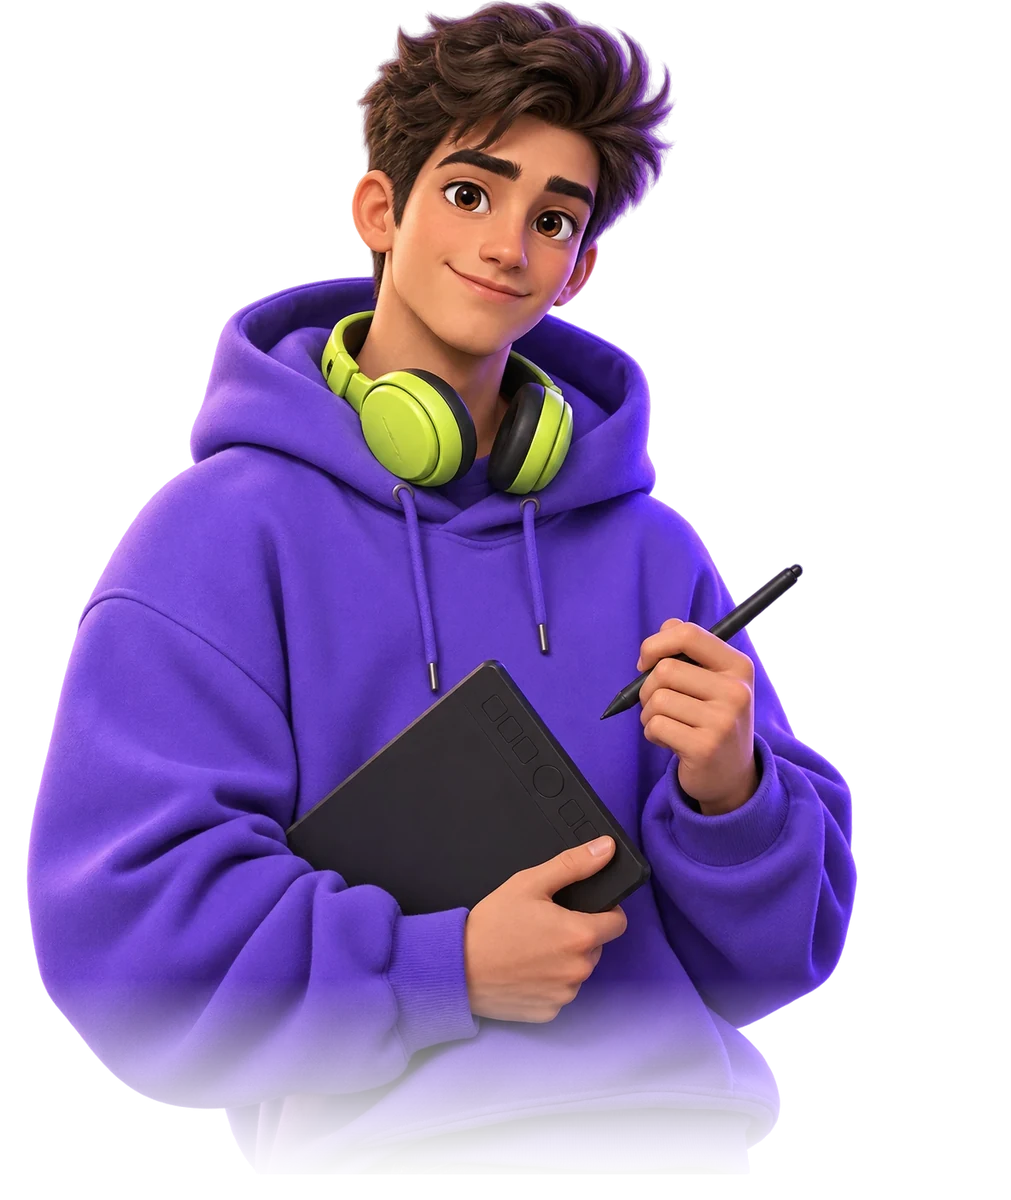
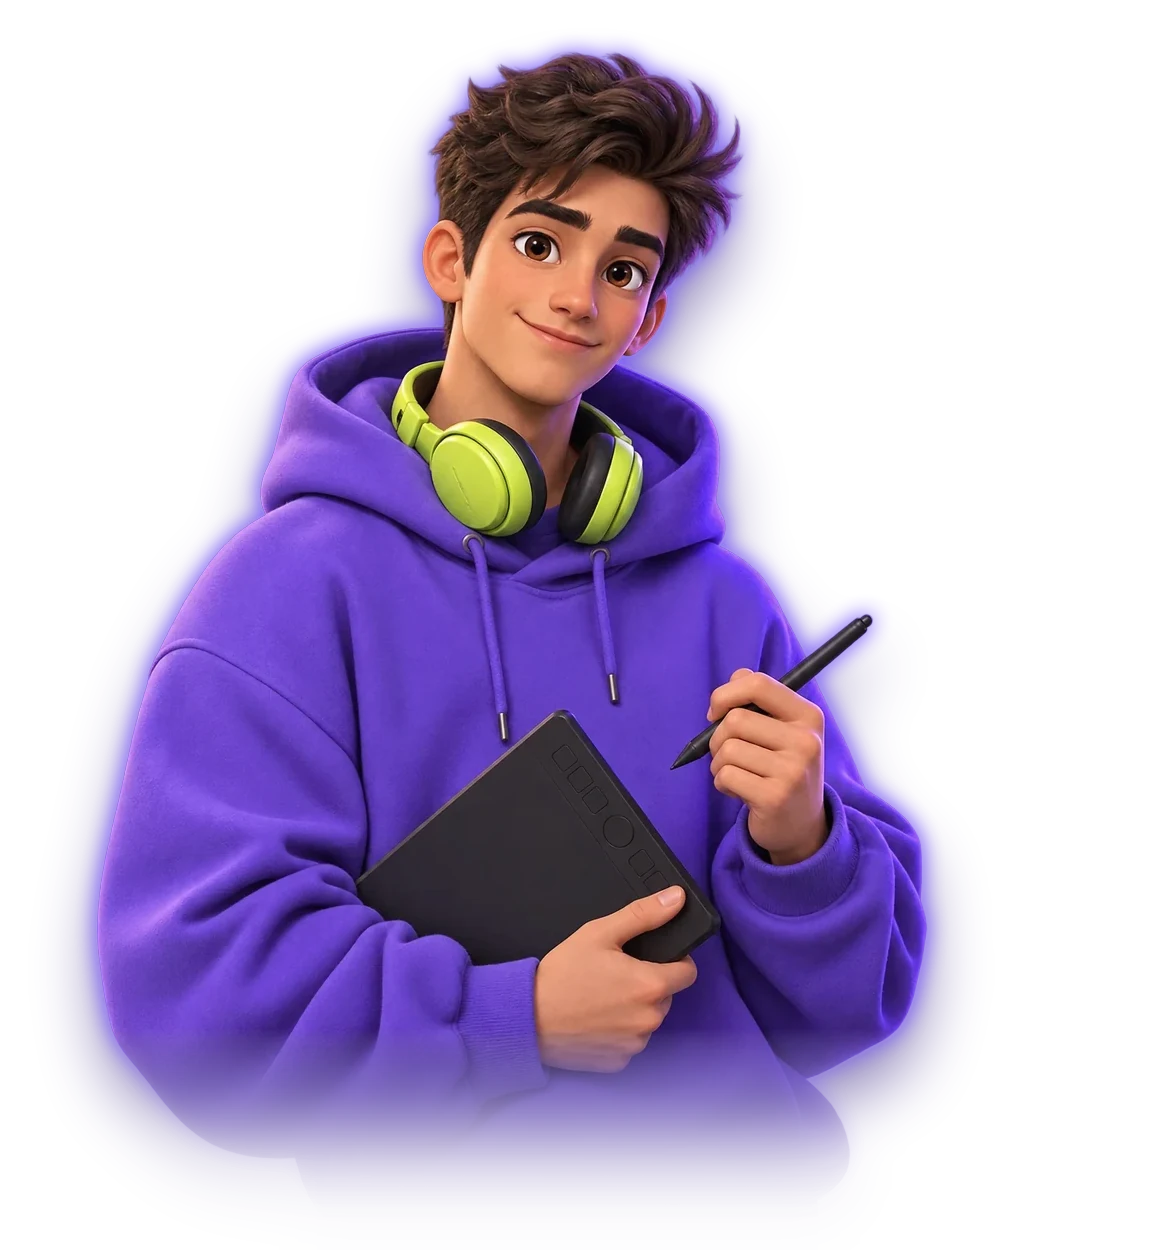
Cut GPU cost of hero and contact animations
Frame cost measured on the GPU process (software rasterizer, so relative):
hero 219 -> 42 ms/frame, contacts ~105 -> ~54 ms/frame; an empty frame is ~39.

- Avatar: bake the violet rim, glow and shadow into avatar.webp; three CSS
  drop-shadow filters on a moving image were recomputed every frame (5x cost)
- Hero glows and contact blobs: soft radial gradients instead of filter: blur;
  three blurred blobs replaced with one gradient aurora layer
- Grid floor narrower so the masked layer is smaller
- Confetti canvas hidden when empty (was a full-card layer on every frame),
  fewer particles, time-based physics so slow devices don't keep it longer
- Pause infinite animations of hero, marquee and contacts while off screen
- Drop all will-change hints; the browser promotes animating elements itself
- Bump asset version to v=6

Claude-Session: https://claude.ai/code/session_01HyjwJEJiQvGGPauUpFGDH2

diff --git a/styles.css b/styles.css
@@ -118,7 +118,6 @@ em { font-style: normal; color: var(--lime); }
   pointer-events: none;
   opacity: 0;
   transition: opacity .3s;
-  will-change: transform;
 }
 .cursor::after {
   content: ""; position: absolute; inset: 0; border-radius: 50%;
@@ -177,7 +176,6 @@ em { font-style: normal; color: var(--lime); }
   background:
     radial-gradient(closest-side, rgba(124, 92, 255, .45), transparent 70%),
     radial-gradient(closest-side at 70% 70%, rgba(255, 79, 216, .25), transparent 70%);
-  filter: blur(40px);
 }
 .hero__eyebrow {
   display: inline-flex; align-items: center; gap: 10px;
@@ -223,7 +221,6 @@ em { font-style: normal; color: var(--lime); }
      хвост запятой выходит за него — даём запас и компенсируем отрицательным отступом */
   padding: 0 .06em .2em;
   margin: 0 -.06em -.2em;
-  will-change: transform, opacity;
 }
 .is-loaded .hero__line .ch { transform: none; opacity: 1; }
 
@@ -254,14 +251,12 @@ em { font-style: normal; color: var(--lime); }
 }
 .hero__avatar::before {
   top: 8%; width: 70%; aspect-ratio: 1;
-  background: radial-gradient(closest-side, rgba(124, 92, 255, .75), rgba(124, 92, 255, .25) 55%, transparent);
-  filter: blur(30px);
+  background: radial-gradient(closest-side, rgba(124, 92, 255, .6), rgba(124, 92, 255, .22) 50%, rgba(124, 92, 255, .06) 75%, transparent);
   animation: glowPulse 5s ease-in-out infinite;
 }
 .hero__avatar::after {
   top: 2%; width: 34%; aspect-ratio: 1;
-  background: radial-gradient(closest-side, rgba(255, 79, 216, .45), transparent);
-  filter: blur(24px);
+  background: radial-gradient(closest-side, rgba(255, 79, 216, .38), rgba(255, 79, 216, .1) 60%, transparent);
   animation: glowPulse 5s ease-in-out -2.5s infinite;
 }
 @keyframes glowPulse {
@@ -272,12 +267,8 @@ em { font-style: normal; color: var(--lime); }
   height: 100%; width: auto; max-width: 100%;
   object-fit: contain; object-position: bottom center;
   transform-origin: 50% 85%;
-  will-change: transform;
-  /* фиолетовый контровой свет по силуэту + мягкая тень */
-  filter:
-    drop-shadow(0 0 1px rgba(190, 170, 255, .9))
-    drop-shadow(0 0 18px rgba(124, 92, 255, .65))
-    drop-shadow(0 40px 60px rgba(40, 20, 120, .55));
+  /* фиолетовый контур, свечение и тень запечены в саму картинку:
+     CSS drop-shadow на движущемся изображении пересчитывался каждый кадр */
   opacity: 0;
   animation: avatarIn 1.2s var(--ease) .35s forwards;
 }
@@ -297,7 +288,7 @@ em { font-style: normal; color: var(--lime); }
 .orbit--2 { width: 104%; aspect-ratio: 1; border-style: dashed; opacity: .6; animation: spin 60s linear infinite; }
 @keyframes spin { to { transform: translate(-50%, -50%) rotate(360deg); } }
 
-.chip--float { position: absolute; animation: float 6s ease-in-out infinite; will-change: transform; }
+.chip--float { position: absolute; animation: float 6s ease-in-out infinite; }
 .chip--a { left: 2%; top: 30%; }
 .chip--b { right: 0; top: 18%; animation-delay: -2s; }
 .chip--c { right: 12%; bottom: 16%; animation-delay: -4s; }
@@ -531,23 +522,30 @@ em { font-style: normal; color: var(--lime); }
   opacity: 0;
   transform: translateY(80px) scale(.86);
   transition: transform 1.3s var(--ease), opacity .9s var(--ease);
-  will-change: transform, opacity;
 }
 .contact__card.is-live { opacity: 1; transform: none; }
 
 /* фон: цветные пятна, сетка-пол, прожектор за курсором */
 .contact__bg { position: absolute; inset: 0; z-index: -1; overflow: hidden; }
-.blob { position: absolute; border-radius: 50%; filter: blur(70px); opacity: 0; transition: opacity 1.6s var(--ease) .3s; will-change: transform; }
-.is-live .blob { opacity: 1; }
-.blob--1 { width: 55%; aspect-ratio: 1; left: -10%; top: -20%; background: rgba(124, 92, 255, .7); animation: blob1 14s ease-in-out infinite; }
-.blob--2 { width: 45%; aspect-ratio: 1; right: -12%; top: 10%; background: rgba(255, 79, 216, .45); animation: blob2 17s ease-in-out infinite; }
-.blob--3 { width: 35%; aspect-ratio: 1; left: 30%; bottom: -40%; background: rgba(212, 255, 63, .16); animation: blob3 12s ease-in-out infinite; }
-@keyframes blob1 { 50% { transform: translate(30%, 25%) scale(1.15); } }
-@keyframes blob2 { 50% { transform: translate(-35%, 30%) scale(.9); } }
-@keyframes blob3 { 50% { transform: translate(-40%, -30%) scale(1.2); } }
+.contact__aurora {
+  position: absolute; inset: -25%;
+  background:
+    radial-gradient(38% 38% at 28% 26%, rgba(124, 92, 255, .75), rgba(124, 92, 255, .28) 45%, transparent 72%),
+    radial-gradient(32% 32% at 78% 38%, rgba(255, 79, 216, .5), rgba(255, 79, 216, .16) 45%, transparent 72%),
+    radial-gradient(26% 26% at 52% 88%, rgba(212, 255, 63, .18), transparent 72%);
+  opacity: 0;
+  transition: opacity 1.6s var(--ease) .3s;
+  animation: aurora 16s ease-in-out infinite alternate;
+}
+.is-live .contact__aurora { opacity: 1; }
+@keyframes aurora {
+  0% { transform: translate3d(0, 0, 0) rotate(0deg) scale(1); }
+  50% { transform: translate3d(6%, 4%, 0) rotate(8deg) scale(1.08); }
+  100% { transform: translate3d(-5%, 2%, 0) rotate(-6deg) scale(1.04); }
+}
 
 .contact__floor {
-  position: absolute; left: -50%; right: -50%; bottom: -10%; height: 60%;
+  position: absolute; left: -20%; right: -20%; bottom: -10%; height: 58%;
   overflow: hidden;
   transform: perspective(500px) rotateX(62deg);
   transform-origin: 50% 0%;
@@ -562,7 +560,6 @@ em { font-style: normal; color: var(--lime); }
     linear-gradient(90deg, rgba(160, 140, 255, .35) 1px, transparent 1px);
   background-size: 64px 64px;
   animation: floor 3s linear infinite;
-  will-change: transform;
 }
 .is-live .contact__floor { opacity: .55; }
 @keyframes floor { from { transform: translateY(0); } to { transform: translateY(64px); } }
@@ -574,7 +571,6 @@ em { font-style: normal; color: var(--lime); }
   background: radial-gradient(closest-side, rgba(212, 255, 63, .12), transparent);
   transform: translate3d(50vw, 50%, 0);
   opacity: 0; transition: opacity .5s;
-  will-change: transform;
 }
 .contact__card:hover .contact__spot { opacity: 1; }
 .contact__fx { position: absolute; inset: 0; width: 100%; height: 100%; pointer-events: none; z-index: 3; }
@@ -586,7 +582,6 @@ em { font-style: normal; color: var(--lime); }
   translate: calc(var(--px) * var(--d) * 26px) calc(var(--py) * var(--d) * 26px);
   transition: translate .6s var(--ease), scale .9s cubic-bezier(.34, 1.8, .5, 1), opacity .5s;
   scale: 0; opacity: 0;
-  will-change: transform;
 }
 .is-live .shape { scale: 1; opacity: 1; }
 .is-live .shape:nth-child(1) { transition-delay: 0s, .7s, .7s; }
@@ -695,6 +690,9 @@ em { font-style: normal; color: var(--lime); }
   color: var(--muted); font-size: 14px;
 }
 .footer a:hover { color: var(--text); }
+
+/* анимации блоков, которых нет на экране, стоят на паузе */
+.is-offscreen, .is-offscreen *, .is-offscreen *::before, .is-offscreen *::after { animation-play-state: paused !important; }
 
 /* ============ REVEAL ============ */
 .reveal { opacity: 0; transform: translateY(40px); transition: opacity 1s var(--ease), transform 1s var(--ease); }

diff --git a/main.js b/main.js
@@ -104,8 +104,9 @@
     let particles = [];
     let running = false;
 
+    let dpr = 1;
     const sizeFx = () => {
-      const dpr = Math.min(window.devicePixelRatio || 1, 1.5);
+      dpr = Math.min(window.devicePixelRatio || 1, 1.5);
       fx.width = card.clientWidth * dpr;
       fx.height = card.clientHeight * dpr;
       ctx.setTransform(dpr, 0, 0, dpr, 0, 0);
@@ -129,10 +130,10 @@
           vr: (Math.random() - 0.5) * 0.4,
           shape: Math.random() < 0.3 ? 'circle' : Math.random() < 0.5 ? 'star' : 'rect',
           life: 1,
-          decay: 0.006 + Math.random() * 0.008,
+          decay: 0.4 + Math.random() * 0.5, // доля жизни в секунду: частица живёт 1.1–2.5 с
         });
       }
-      if (!running) { running = true; requestAnimationFrame(tick); }
+      if (!running) { running = true; fx.hidden = false; last = performance.now(); requestAnimationFrame(tick); }
     };
 
     const drawStar = (r) => {
@@ -146,28 +147,34 @@
       ctx.fill();
     };
 
-    const tick = () => {
+    // физика по реальному времени, а не по кадрам: на слабом устройстве конфетти
+    // не «зависает» дольше, а просто рисуется реже
+    let last = 0;
+    const tick = (now) => {
+      const k = Math.min((now - last) / 16.67, 4); // 1 = один кадр при 60 fps
+      last = now;
+      ctx.setTransform(1, 0, 0, 1, 0, 0);
       ctx.clearRect(0, 0, fx.width, fx.height);
       particles = particles.filter((p) => p.life > 0);
       for (const p of particles) {
-        p.vx *= 0.985;
-        p.vy = p.vy * 0.985 + 0.22;
-        p.x += p.vx;
-        p.y += p.vy;
-        p.rot += p.vr;
-        p.life -= p.decay;
-        ctx.save();
+        const drag = Math.pow(0.985, k);
+        p.vx *= drag;
+        p.vy = p.vy * drag + 0.22 * k;
+        p.x += p.vx * k;
+        p.y += p.vy * k;
+        p.rot += p.vr * k;
+        p.life -= p.decay * k / 60;
+        const cos = Math.cos(p.rot), sin = Math.sin(p.rot);
+        ctx.setTransform(dpr * cos, dpr * sin, -dpr * sin, dpr * cos, dpr * p.x, dpr * p.y);
         ctx.globalAlpha = Math.max(0, Math.min(1, p.life * 1.5));
-        ctx.translate(p.x, p.y);
-        ctx.rotate(p.rot);
         ctx.fillStyle = p.color;
         if (p.shape === 'circle') { ctx.beginPath(); ctx.arc(0, 0, p.size / 2, 0, Math.PI * 2); ctx.fill(); }
         else if (p.shape === 'star') drawStar(p.size * 0.8);
         else ctx.fillRect(-p.size / 2, -p.size / 4, p.size, p.size / 2);
-        ctx.restore();
       }
+      ctx.setTransform(dpr, 0, 0, dpr, 0, 0);
       if (particles.length) requestAnimationFrame(tick);
-      else running = false;
+      else { running = false; fx.hidden = true; } // пустой холст не держим отдельным слоем
     };
 
     const go = () => {
@@ -175,10 +182,10 @@
       // два залпа из нижних углов и один из центра, когда карточка раскрылась
       setTimeout(() => {
         const w = card.clientWidth, h = card.clientHeight;
-        burst(w * 0.12, h * 0.9, 90, 1.1);
-        burst(w * 0.88, h * 0.9, 90, 1.1);
+        burst(w * 0.12, h * 0.9, 60, 1.1);
+        burst(w * 0.88, h * 0.9, 60, 1.1);
       }, 700);
-      setTimeout(() => burst(card.clientWidth / 2, card.clientHeight * 0.42, 140, 1.2), 1500);
+      setTimeout(() => burst(card.clientWidth / 2, card.clientHeight * 0.42, 90, 1.2), 1500);
     };
 
     if (reduceMotion || !('IntersectionObserver' in window)) {
@@ -229,6 +236,14 @@
         burst(r.left + r.width / 2 - c.left, r.top + r.height / 2 - c.top, 60, 0.8);
       });
     });
+  }
+
+  // Бесконечные анимации блоков вне экрана ставим на паузу — видеокарта не тратит на них кадры
+  if ('IntersectionObserver' in window) {
+    const pauser = new IntersectionObserver((entries) => {
+      entries.forEach((entry) => entry.target.classList.toggle('is-offscreen', !entry.isIntersecting));
+    }, { rootMargin: '100px 0px' });
+    document.querySelectorAll('.hero, .marquee, .contact__card').forEach((el) => pauser.observe(el));
   }
 
   document.querySelectorAll('[data-year]').forEach((el) => { el.textContent = new Date().getFullYear(); });

diff --git a/index.html b/index.html
@@ -11,8 +11,8 @@
   <link rel="preconnect" href="https://fonts.googleapis.com" />
   <link rel="preconnect" href="https://fonts.gstatic.com" crossorigin />
   <link href="https://fonts.googleapis.com/css2?family=Unbounded:wght@500;700;900&family=Manrope:wght@400;500;600;700&display=swap" rel="stylesheet" />
-  <link rel="stylesheet" href="styles.css?v=5" />
-  <link rel="preload" as="image" href="assets/avatar.webp?v=5" />
+  <link rel="stylesheet" href="styles.css?v=6" />
+  <link rel="preload" as="image" href="assets/avatar.webp?v=6" />
 
   <script type="importmap">
     {
@@ -56,7 +56,7 @@
 
       <!-- Аватар. data-avatar="assets/avatar.png" — картинка с 3D-наклоном,
            data-avatar="assets/avatar.glb" — 3D-модель, пусто — временная заглушка -->
-      <div class="hero__stage" data-avatar="assets/avatar.webp?v=5">
+      <div class="hero__stage" data-avatar="assets/avatar.webp?v=6">
         <div class="orbit orbit--1" aria-hidden="true"></div>
         <div class="orbit orbit--2" aria-hidden="true"></div>
         <canvas class="hero__canvas" aria-label="3D-персонаж Егора"></canvas>
@@ -298,13 +298,11 @@
     <section class="section contact" id="contact">
       <div class="contact__card" data-contact>
         <div class="contact__bg" aria-hidden="true">
-          <span class="blob blob--1"></span>
-          <span class="blob blob--2"></span>
-          <span class="blob blob--3"></span>
+          <span class="contact__aurora"></span>
           <span class="contact__floor"></span>
           <span class="contact__spot"></span>
         </div>
-        <canvas class="contact__fx" aria-hidden="true"></canvas>
+        <canvas class="contact__fx" aria-hidden="true" hidden></canvas>
 
         <div class="contact__shapes" aria-hidden="true">
           <span class="shape shape--star" style="--x:9%;--y:18%;--d:1.4;--r:-12deg">✦</span>
@@ -352,7 +350,7 @@
     <a href="#top">Наверх ↑</a>
   </footer>
 
-  <script src="main.js?v=5" defer></script>
-  <script type="module" src="avatar.js?v=5"></script>
+  <script src="main.js?v=6" defer></script>
+  <script type="module" src="avatar.js?v=6"></script>
 </body>
 </html>

diff --git a/CLAUDE.md b/CLAUDE.md
@@ -1,7 +1,7 @@
 # Сайт-портфолио Егора Иванова
 
 Статический сайт без сборки: `index.html`, `styles.css`, `main.js`, `avatar.js`.
-**Кэш:** подключаемые файлы в `index.html` помечены версией (`styles.css?v=5`, `main.js?v=5`, `avatar.js?v=5`, `assets/avatar.webp?v=5`). При каждом изменении этих файлов увеличивать номер `v` везде, иначе у посетителей новый HTML окажется со старыми стилями из кэша.
+**Кэш:** подключаемые файлы в `index.html` помечены версией (`styles.css?v=6`, `main.js?v=6`, `avatar.js?v=6`, `assets/avatar.webp?v=6`). При каждом изменении этих файлов увеличивать номер `v` везде, иначе у посетителей новый HTML окажется со старыми стилями из кэша.
 
 Язык сайта — русский. Стиль: тёмный фон, крупная жирная типографика (Unbounded), акценты лайм `#d4ff3f` и фиолетовый `#7c5cff`, стеклянные карточки, кнопки-пилюли. Современно, «чувствуется уровень», но без перегруза.
 
